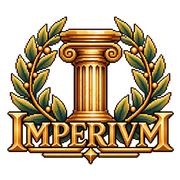
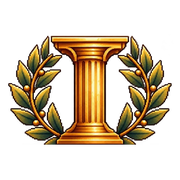
El juego pasa a llamarse Aegium
- Logo: la columna entre laureles (emblema.webp), el nombre en Cinzel dorado y
  el adorno de debajo (adorno.webp); iconos sin texto.
- Título, cabecera, bienvenida, avisos del navegador y correos dicen Aegium.
- Lo interno conserva «imperium» (claves del navegador, servicio, repositorio).

diff --git a/server/mail.js b/server/mail.js
@@ -2,7 +2,7 @@
 //
 //   BREVO_API_KEY   clave de la API de Brevo (Ajustes → SMTP y API → Claves API)
 //   MAIL_FROM       remitente verificado en Brevo (por ejemplo, tu Gmail)
-//   MAIL_FROM_NAME  nombre que ve el jugador (por defecto, «Imperium»)
+//   MAIL_FROM_NAME  nombre que ve el jugador (por defecto, «Aegium»)
 //
 // Sin clave, los correos no se mandan: se escriben en la consola del servidor, para probar en local.
 
@@ -27,40 +27,40 @@ function template({ title, lines, button, link, foot }) {
   const p = (t) => `<p style="margin:0 0 14px;line-height:1.5">${t}</p>`;
   const html = `<!doctype html><html lang="es"><body style="margin:0;padding:24px;background:#1d1813;font-family:Georgia,serif;color:#f3ead8">
   <div style="max-width:520px;margin:0 auto;background:#28211a;border:1px solid #5a4a2a;border-radius:12px;padding:28px">
-    <h1 style="margin:0 0 18px;font-size:24px;color:#f2c94c;letter-spacing:1px">⚜ Imperium</h1>
+    <h1 style="margin:0 0 18px;font-size:24px;color:#f2c94c;letter-spacing:1px">⚜ Aegium</h1>
     <h2 style="margin:0 0 14px;font-size:18px;color:#f3ead8">${escapeHtml(title)}</h2>
     ${lines.map((l) => p(l)).join('')}
     <p style="margin:22px 0"><a href="${escapeHtml(link)}" style="display:inline-block;background:#e0b23e;color:#2b2014;text-decoration:none;font-weight:bold;padding:12px 22px;border-radius:8px;font-family:Arial,sans-serif">${escapeHtml(button)}</a></p>
     <p style="margin:0 0 14px;font-size:12px;color:#b9ab90;line-height:1.5">Si el botón no funciona, copia esta dirección en el navegador:<br><span style="word-break:break-all">${escapeHtml(link)}</span></p>
     <p style="margin:0;font-size:12px;color:#b9ab90">${foot}</p>
   </div></body></html>`;
-  const text = `Imperium\n\n${title}\n\n${lines.map((l) => l.replace(/<[^>]+>/g, '')).join('\n\n')}\n\n${button}: ${link}\n\n${foot.replace(/<[^>]+>/g, '')}`;
+  const text = `Aegium\n\n${title}\n\n${lines.map((l) => l.replace(/<[^>]+>/g, '')).join('\n\n')}\n\n${button}: ${link}\n\n${foot.replace(/<[^>]+>/g, '')}`;
   return { html, text };
 }
 
 export const MAILS = {
   registro: ({ username, link }) => ({
-    subject: 'Confirma tu cuenta de Imperium',
+    subject: 'Confirma tu cuenta de Aegium',
     ...template({
       title: `¡Bienvenido, ${username}!`,
       lines: ['Solo falta un paso para fundar tu ciudad: confirma que este correo es tuyo.', 'El enlace vale durante 24 horas.'],
       button: 'Confirmar mi cuenta',
       link,
-      foot: 'Si no has creado ninguna cuenta en Imperium, no hagas nada: sin confirmar, se borra sola.',
+      foot: 'Si no has creado ninguna cuenta en Aegium, no hagas nada: sin confirmar, se borra sola.',
     }),
   }),
   correo: ({ username, link }) => ({
-    subject: 'Confirma tu correo en Imperium',
+    subject: 'Confirma tu correo en Aegium',
     ...template({
       title: `Hola, ${username}`,
-      lines: ['Has pedido usar este correo en tu cuenta de Imperium. Confírmalo con el botón.', 'El enlace vale durante 24 horas.'],
+      lines: ['Has pedido usar este correo en tu cuenta de Aegium. Confírmalo con el botón.', 'El enlace vale durante 24 horas.'],
       button: 'Confirmar el correo',
       link,
       foot: 'Si no has sido tú, no hagas nada: el correo de tu cuenta no cambiará.',
     }),
   }),
   clave: ({ username, link }) => ({
-    subject: 'Cambia tu contraseña de Imperium',
+    subject: 'Cambia tu contraseña de Aegium',
     ...template({
       title: `Hola, ${username}`,
       lines: ['Alguien (seguramente tú) ha pedido una contraseña nueva para tu cuenta.', 'El enlace vale durante 1 hora y solo se puede usar una vez.'],
@@ -81,7 +81,7 @@ export async function sendMail(to, { subject, html, text }) {
     method: 'POST',
     headers: { 'api-key': process.env.BREVO_API_KEY, 'content-type': 'application/json', accept: 'application/json' },
     body: JSON.stringify({
-      sender: { email: process.env.MAIL_FROM, name: process.env.MAIL_FROM_NAME || 'Imperium' },
+      sender: { email: process.env.MAIL_FROM, name: process.env.MAIL_FROM_NAME || 'Aegium' },
       to: [{ email: to }],
       subject,
       htmlContent: html,

diff --git a/index.html b/index.html
@@ -5,11 +5,11 @@
     <meta name="viewport" content="width=device-width, initial-scale=1.0" />
     <!-- El juego ya es oscuro: que el modo oscuro automático de algunos navegadores no le cambie los colores -->
     <meta name="color-scheme" content="dark" />
-    <title>Imperium · Juego de estrategia en el navegador</title>
+    <title>Aegium · Juego de estrategia en el navegador</title>
     <link rel="icon" href="/favicon.ico" sizes="48x48" />
     <link rel="icon" type="image/png" href="/icon-32.png" sizes="32x32" />
     <link rel="apple-touch-icon" href="/icon-180.png" />
-    <link rel="preload" as="image" href="/ui/logo.webp" />
+    <link rel="preload" as="image" href="/ui/emblema.webp" />
     <meta name="description" content="Funda tu ciudad en un archipiélago vivo, comercia, investiga, explora y conquista junto a miles de jugadores." />
     <link rel="preconnect" href="https://fonts.googleapis.com" />
     <link rel="preconnect" href="https://fonts.gstatic.com" crossorigin />
@@ -21,7 +21,7 @@
 
       <section id="landing" hidden>
         <div class="landing-hero">
-          <h1 class="landing-brand"><img src="/ui/logo.webp" alt="Imperium" width="720" height="473" /></h1>
+          <h1 class="landing-brand"><img class="brand-emblem" src="/ui/emblema.webp" alt="" width="434" height="289" /><span class="brand-name">Aegium</span><img class="brand-rule" src="/ui/adorno.webp" alt="" width="477" height="34" /></h1>
           <p class="tagline">Funda tu ciudad en un archipiélago vivo que nunca se detiene. Comercia, investiga, explora la niebla, forja alianzas y conquista a tus vecinos.</p>
           <ul class="features">
             <li><span>🏛</span><div><b>19 edificios, 13 investigaciones y 13 unidades</b>Tu ciudad crece en 3D mientras juegas, también con la pestaña cerrada.</div></li>
@@ -63,7 +63,7 @@
       </section>
 
       <header id="topbar">
-        <div class="brand"><img src="/ui/icono.png" alt="" width="28" height="28" />Imperium</div>
+        <div class="brand"><img src="/ui/icono.png" alt="" width="28" height="28" />Aegium</div>
         <div id="resources"></div>
         <div class="top-actions top-status">
           <button id="event-pill" class="pill event-pill" title="Eventos del archipiélago"></button>

diff --git a/src/main.js b/src/main.js
@@ -86,10 +86,10 @@ async function boot() {
 function startLanding(message, opts = {}) {
   const now = clock.now();
   const world = new ClientWorld();
-  const home = { id: 'escaparate', type: 'jugador', x: 0, z: 0, size: 10, owner: 0, name: 'Imperium' };
+  const home = { id: 'escaparate', type: 'jugador', x: 0, z: 0, size: 10, owner: 0, name: 'Aegium' };
   const neutrals = generateSector(0, 3);
   world.apply({ islands: [home, ...neutrals], states: Object.fromEntries(neutrals.map((i) => [i.id, freshIslandState(i, now)])), players: {} });
-  const state = newState({ now, home: home.id, name: 'Imperium' });
+  const state = newState({ now, home: home.id, name: 'Aegium' });
   Object.assign(state.buildings, { ayuntamiento: 6, aserradero: 5, cantera: 4, granja: 4, mina: 3, fundicion: 3, mercado: 3, almacen: 5, academia: 4, templo: 3, cuartel: 3, puerto: 4, muralla: 3, coloso: 6 });
   Object.assign(state.units, { lancero: 14, arquero: 8, mercante: 2, trirreme: 1 });
   for (const isl of neutrals) state.known[isl.id] = { explored: true };
@@ -264,7 +264,7 @@ function startGame(game) {
     const important = kind === 'error' || /⚔|🏴☠|🛡|✉|🌋/.test(text);
     if (document.hidden && important && notifyOn()) {
       try {
-        new Notification('Imperium', { body: text, tag: 'imperium' });
+        new Notification('Aegium', { body: text, tag: 'imperium' });
       } catch {
         // algunos navegadores no dejan crear avisos así
       }
@@ -286,7 +286,7 @@ function startGame(game) {
       warned.add(m.id);
       if (document.hidden && notifyOn()) {
         try {
-          new Notification('Imperium · ¡Te atacan!', { body: m.size ? `${m.from} viene hacia tu isla con ${m.size} unidades` : `Una flota de ${m.from} viene hacia tu isla`, tag: `ataque-${m.id}` });
+          new Notification('Aegium · ¡Te atacan!', { body: m.size ? `${m.from} viene hacia tu isla con ${m.size} unidades` : `Una flota de ${m.from} viene hacia tu isla`, tag: `ataque-${m.id}` });
         } catch {
           // sin avisos
         }

diff --git a/src/style.css b/src/style.css
@@ -1633,11 +1633,40 @@ body.landing-mode #chat {
   line-height: 0;
 }
 
-/* El logo oficial (columna, laurel y el nombre) */
-.landing-brand img {
+/* El logo: la columna entre laureles, el nombre en letras de oro y la raya con el rombo */
+.landing-brand {
+  display: inline-flex;
+  flex-direction: column;
+  align-items: center;
   width: clamp(220px, 32vw, 400px);
-  height: auto;
   filter: drop-shadow(0 6px 18px rgba(0, 0, 0, 0.55));
+}
+
+.landing-brand .brand-emblem {
+  width: 62%;
+  height: auto;
+}
+
+.landing-brand .brand-name {
+  margin-top: 0.02em;
+  font-family: var(--font-title);
+  font-weight: 700;
+  font-size: clamp(54px, 7.4vw, 92px);
+  line-height: 1;
+  letter-spacing: 0.05em;
+  color: #e9b949;
+  background: linear-gradient(180deg, #fff4c8 0%, #f7d56e 28%, #dca233 55%, #a86d18 80%, #6e440c 100%);
+  -webkit-background-clip: text;
+  background-clip: text;
+  -webkit-text-fill-color: transparent;
+  -webkit-text-stroke: 1.5px rgba(66, 38, 6, 0.9);
+  filter: drop-shadow(0 3px 0 rgba(54, 31, 5, 0.95));
+}
+
+.landing-brand .brand-rule {
+  width: 78%;
+  height: auto;
+  margin-top: 0.35em;
 }
 
 .tagline {

diff --git a/server/index.js b/server/index.js
@@ -12,7 +12,7 @@ import { MAILS, publicUrl, sendMail } from './mail.js';
 import { openStore } from './store.js';
 import { UserError, WorldServer } from './WorldServer.js';
 
-// Servidor de Imperium: API JSON + archivos del juego.
+// Servidor de Aegium (antes Imperium): API JSON + archivos del juego.
 //   npm run dev   → con Vite integrado (recarga en caliente) y datos en server/data/
 //   npm start     → producción: sirve dist/ y usa Postgres si hay DATABASE_URL
 //
@@ -595,7 +595,7 @@ setInterval(() => {
 }, 30_000);
 
 server.listen(PORT, () => {
-  console.log(`Imperium en http://localhost:${PORT} · datos: ${store.kind} · velocidad ×${universe.speed} · ${world.users.size} jugadores`);
+  console.log(`Aegium en http://localhost:${PORT} · datos: ${store.kind} · velocidad ×${universe.speed} · ${world.users.size} jugadores`);
 });
 
 async function shutdown() {

diff --git a/src/ui/social.js b/src/ui/social.js
@@ -408,7 +408,7 @@ export class Social {
     this.hud.showModal(
       'welcome',
       `<div class="modal-card">
-        ${head('⚜', `Bienvenido a Imperium, ${escapeHtml(this.game.username)}`, `Tu ciudad: ${escapeHtml(this.game.homeIsland?.name ?? '')}`)}
+        ${head('⚜', `Bienvenido a Aegium, ${escapeHtml(this.game.username)}`, `Tu ciudad: ${escapeHtml(this.game.homeIsland?.name ?? '')}`)}
         <ol class="welcome">
           <li><span>🏛</span><div><b>Haz crecer tu isla.</b> Pulsa un edificio para mejorarlo. Los recursos se producen solos, también con el juego cerrado.</div></li>
           <li><span>📋</span><div><b>Sigue las misiones.</b> Te guían paso a paso y te dan recompensas.</div></li>

diff --git a/src/ui/changelog.js b/src/ui/changelog.js
@@ -5,6 +5,15 @@ import { escapeHtml } from './format.js';
 
 export const CHANGELOG = [
   {
+    id: '2026-10-20a',
+    date: '2026-10-20',
+    title: 'Nuevo nombre: Aegium',
+    items: [
+      '🏛 El juego se llama ahora <b>Aegium</b>, como la antigua ciudad de Acaya junto al golfo de Corinto. Todo lo demás sigue igual: tu cuenta, tu ciudad y tus partidas.',
+      '🌿 El logo conserva la columna dorada entre laureles, que es también el nuevo icono de la pestaña.',
+    ],
+  },
+  {
     id: '2026-10-19d',
     date: '2026-10-19',
     title: 'El puerto acelera tus flotas',

diff --git a/src/ui/Hud.js b/src/ui/Hud.js
@@ -577,7 +577,7 @@ Dejan de comer y de cobrar, y recuperas el 20 % de la madera, la comida y el bro
     mBadge.textContent = mail;
     // El título de la pestaña avisa aunque estés en otra
     const attack = this.game.raid || this.game.incoming?.length;
-    document.title = `${attack ? '⚔ ' : ''}${unread + mail ? `(${unread + mail}) ` : ''}Imperium`;
+    document.title = `${attack ? '⚔ ' : ''}${unread + mail ? `(${unread + mail}) ` : ''}Aegium`;
 
     // Avisar cuando una misión queda lista para reclamar
     const claimable = this.game.claimableQuests();

diff --git a/src/audio.js b/src/audio.js
@@ -163,7 +163,7 @@ export function setGulls(k) {
   }
 }
 
-// ── Música: el tema de Imperium en bucle ────────────────────────────────────
+// ── Música: el tema de Aegium en bucle ────────────────────────────────────
 
 let music = null;
 

diff --git a/CLAUDE.md b/CLAUDE.md
@@ -1,4 +1,6 @@
-# Imperium
+# Aegium (antes Imperium)
+
+- El juego se llama **Aegium** de cara a los jugadores (títulos, textos, correos, logo). Lo interno conserva «imperium»: carpeta, repositorio, `package.json`, servicio `imperium`, claves `imperium.*` de `localStorage` (no las cambies: cerraría la sesión de todos y perderían sus ajustes) y `window.__IMPERIUM__`.
 
 Juego de estrategia multijugador en el navegador al estilo de Ikariam/OGame: un archipiélago low-poly en 3D (Three.js + Vite) compartido por todos los jugadores. Hay un servidor Node (`server/`) que guarda las cuentas y el mundo (Postgres si hay `DATABASE_URL`, si no un archivo en `server/data/`).
 

diff --git a/README.md b/README.md
@@ -1,4 +1,6 @@
-# Imperium
+# Aegium
+
+> Antes se llamaba Imperium: el repositorio, las rutas y los nombres internos (claves del navegador, servicio del servidor) lo conservan.
 
 Juego de estrategia multijugador en el navegador, al estilo de Ikariam u OGame: cada jugador funda su ciudad en un archipiélago 3D compartido (hecho con [Three.js](https://threejs.org/)), la hace crecer, explora, comercia y ataca a otros jugadores. El servidor es el árbitro de todo y el mundo sigue vivo aunque nadie esté conectado.
 
